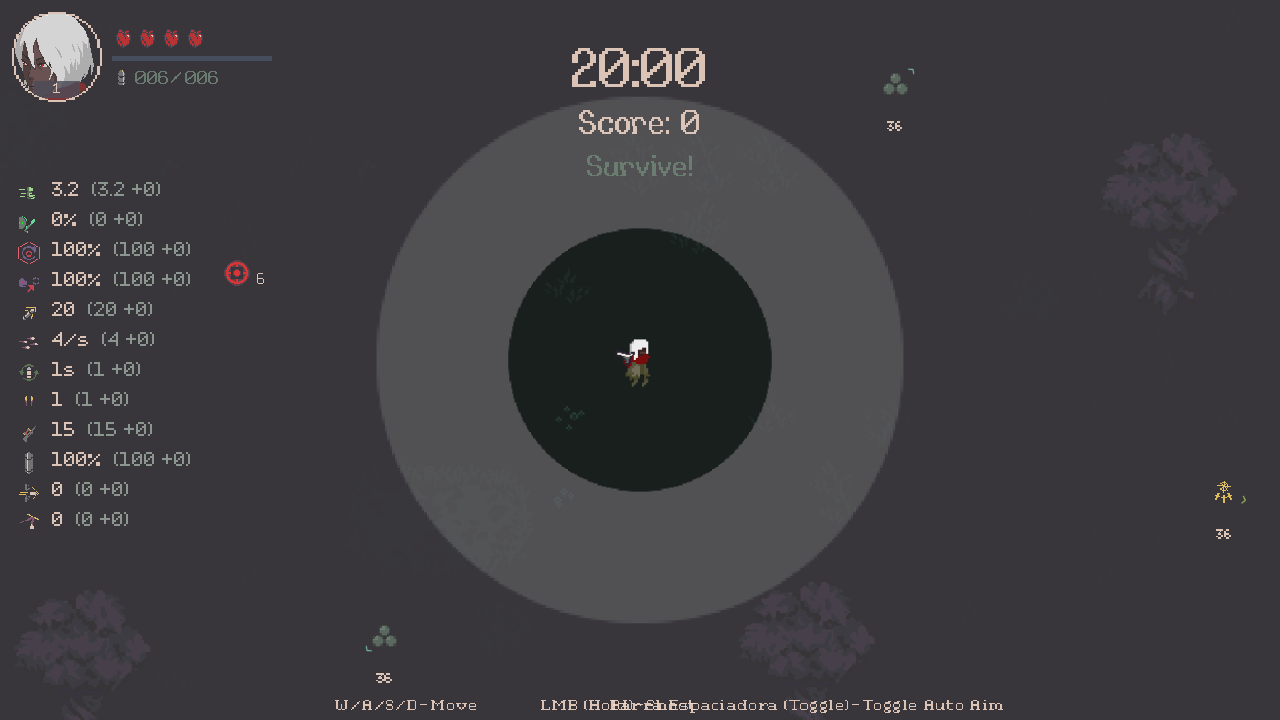
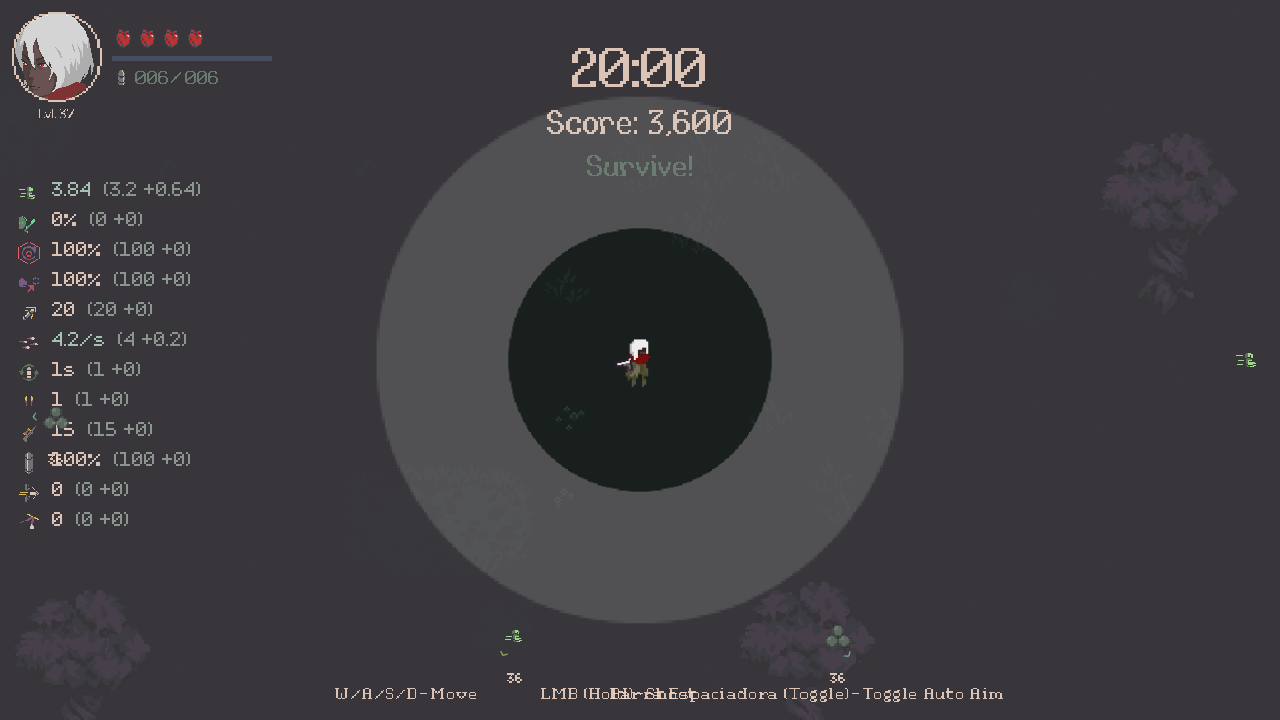
Move native level caption beneath the character portrait

diff --git a/src/CornerStatusHud.cs b/src/CornerStatusHud.cs
@@ -11,7 +11,7 @@ namespace TwentyMinutes.Modernization;
 [DefaultExecutionOrder(300)]
 public sealed class CornerStatusHud:MonoBehaviour
 {
- GameController owner;TMP_Text score,level;RectTransform panel,root,portrait,health,xp,ammo,levelBadge;
+ GameController owner;TMP_Text score,level,levelPrefix;RectTransform panel,root,portrait,health,xp,ammo,levelCaption;
  Image face;Sprite characterPortrait;
  internal void Initialize(GameController game,TMP_Text scoreText){owner=game;score=scoreText;panel=(RectTransform)game.hud.transform;}
  static RectTransform Child(Transform parent,string name)=>parent.Find(name).GetComponent<RectTransform>();
@@ -25,9 +25,10 @@ public sealed class CornerStatusHud:MonoBehaviour
   mask.GetComponent<Image>().sprite=Resources.FindObjectsOfTypeAll<Image>().First(i=>i.sprite!=null&&i.sprite.name=="T_Circle").sprite;
   mask.GetComponent<Mask>().showMaskGraphic=false;mask.GetComponent<Image>().raycastTarget=false;
   face=Rect(new GameObject("CharacterFace",typeof(RectTransform),typeof(Image)),mask,new Vector2(.5f,1),new Vector2(.5f,1),Vector2.zero,Vector2.zero).GetComponent<Image>();face.preserveAspect=true;face.raycastTarget=false;
-  var badge=StatsOverlay.Box(mask,"LevelBadge",new Vector2(.5f,0),new Vector2(.5f,0),new Vector2(0,2),new Vector2(46,17),StatsOverlay.Ink);badge.GetComponent<Image>().raycastTarget=false;levelBadge=badge.GetComponent<RectTransform>();
+  levelCaption=Rect(new GameObject("LevelCaption",typeof(RectTransform)),root,new Vector2(0,1),new Vector2(.5f,1),Vector2.zero,Vector2.zero);
   var oldLevel=Child(panel,"LevelDisplay");level=oldLevel.Find("LvlValue").GetComponent<TMP_Text>();
-  Rect(level.gameObject,levelBadge,new Vector2(.5f,.5f),new Vector2(.5f,.5f),Vector2.zero,new Vector2(44,17));level.fontSize=14;level.alignment=TextAlignmentOptions.Center;level.raycastTarget=false;oldLevel.gameObject.SetActive(false);
+  Rect(level.gameObject,levelCaption,new Vector2(.5f,.5f),new Vector2(0,.5f),Vector2.zero,new Vector2(44,17));level.fontSize=18*.75f;level.alignment=TextAlignmentOptions.MidlineLeft;level.raycastTarget=false;oldLevel.gameObject.SetActive(false);
+  levelPrefix=StatsOverlay.Text(levelCaption,"LevelPrefix",level.font,"Lvl.",13,Vector2.zero,new Vector2(44,17));levelPrefix.fontSize=level.fontSize;levelPrefix.alignment=TextAlignmentOptions.MidlineLeft;levelPrefix.color=level.color;
   health=Child(panel,"HealthUI");health.GetComponent<HorizontalLayoutGroup>().enabled=false;
   xp=Child(panel,"XPBar");ammo=Child(panel,"AmmoDisplay");
   foreach(var view in new[]{health,xp,ammo})Rect(view.gameObject,root,new Vector2(0,1),new Vector2(0,1),Vector2.zero,Vector2.zero);
@@ -45,18 +46,21 @@ public sealed class CornerStatusHud:MonoBehaviour
   var safe=Screen.safeArea;float topInset=Screen.height-safe.yMax;
   float panelTop=RectTransformUtility.WorldToScreenPoint(null,panel.TransformPoint(new Vector3(panel.rect.xMin,panel.rect.yMax))).y;
   float scoreBottom=RectTransformUtility.WorldToScreenPoint(null,score.transform.TransformPoint(score.textBounds.min)).y;
-  float height=Mathf.Min(90,(panelTop-scoreBottom-topInset-12*uiScale)/uiScale);
+  float height=Mathf.Min(110,(panelTop-scoreBottom-topInset-12*uiScale)/uiScale),avatarHeight=height-20;
   root.localScale=Vector3.one*(uiScale/nativeScale);root.sizeDelta=new Vector2(260,height);
   root.anchoredPosition=new Vector2((safe.xMin+12*uiScale)/nativeScale,-(topInset+12*uiScale)/nativeScale);
-  portrait.sizeDelta=new Vector2(height,height);
-  var mask=(RectTransform)face.transform.parent;mask.sizeDelta=new Vector2(height-4,height-4);
-  face.rectTransform.sizeDelta=new Vector2(height*1.45f,height*1.45f*characterPortrait.rect.height/characterPortrait.rect.width);face.rectTransform.anchoredPosition=new Vector2(0,height*.12f);
-  levelBadge.sizeDelta=new Vector2(Mathf.Min(46,height-8),17);
-  float columnX=height+10,width=260-columnX;
+  portrait.sizeDelta=new Vector2(avatarHeight,avatarHeight);
+  var mask=(RectTransform)face.transform.parent;mask.sizeDelta=new Vector2(avatarHeight-4,avatarHeight-4);
+  face.rectTransform.sizeDelta=new Vector2(avatarHeight*1.45f,avatarHeight*1.45f*characterPortrait.rect.height/characterPortrait.rect.width);face.rectTransform.anchoredPosition=new Vector2(0,avatarHeight*.12f);
+  levelCaption.anchoredPosition=new Vector2(avatarHeight*.5f,-avatarHeight-3);levelCaption.sizeDelta=new Vector2(avatarHeight,17);
+  float prefixWidth=levelPrefix.preferredWidth,valueWidth=level.preferredWidth,start=-(prefixWidth+3+valueWidth)*.5f;
+  Rect(levelPrefix.gameObject,levelCaption,new Vector2(.5f,.5f),new Vector2(0,.5f),new Vector2(start,0),new Vector2(prefixWidth,17));
+  Rect(level.gameObject,levelCaption,new Vector2(.5f,.5f),new Vector2(0,.5f),new Vector2(start+prefixWidth+3,0),new Vector2(valueWidth,17));
+  float columnX=avatarHeight+10,width=260-columnX;
   var hearts=health.Cast<Transform>().Where(t=>t.gameObject.activeSelf).Select(t=>(RectTransform)t).ToArray();
   int columns=Mathf.Min(8,Mathf.Max(1,hearts.Length)),rows=Mathf.Max(1,Mathf.CeilToInt((float)hearts.Length/columns));
-  float cell=Mathf.Min(22,(width-(columns-1)*2)/columns,(height-38-(rows-1)*2)/rows);
-  float heartHeight=rows*cell+(rows-1)*2,totalHeight=heartHeight+38,top=(height-totalHeight)*.5f;
+  float cell=Mathf.Min(22,(width-(columns-1)*2)/columns,(avatarHeight-38-(rows-1)*2)/rows);
+  float heartHeight=rows*cell+(rows-1)*2,totalHeight=heartHeight+38,top=(avatarHeight-totalHeight)*.5f;
   health.anchoredPosition=new Vector2(columnX,-top);health.sizeDelta=new Vector2(width,heartHeight);
   for(int i=0;i<hearts.Length;i++)
   {var item=hearts[i];item.anchorMin=item.anchorMax=new Vector2(0,1);item.pivot=new Vector2(0,1);item.localScale=Vector3.one;item.anchoredPosition=new Vector2(i%columns*(cell+2),-i/columns*(cell+2));item.sizeDelta=new Vector2(cell,cell);item.GetComponent<Image>().raycastTarget=false;}

diff --git a/validation/CornerHudChecks.cs b/validation/CornerHudChecks.cs
@@ -50,7 +50,11 @@ public partial class RuntimeChecks
   Require(CornerBounds((RectTransform)root.Find("XPBar")).width<bounds.width&&CornerBounds((RectTransform)root.Find("XPBar")).height<=8,"native XP progress is a short thin local bar");
   var face=root.GetComponentsInChildren<Image>().Single(i=>i.name=="CharacterFace");Require(face.sprite==PlayerController.Instance.loadedCharacter.portrait,"avatar shows the actual selected character portrait");
   foreach(var text in root.GetComponentsInChildren<TMP_Text>()){text.ForceMeshUpdate();var r=CornerBounds(text.rectTransform);Require(r.yMin>=bottom-1,"status text stays within the Score height limit: "+text.name);}
-  var level=root.GetComponentsInChildren<TMP_Text>().Single(t=>t.name=="LvlValue");Require(int.Parse(level.text)==game.playerXP.level,"native level variable still updates the portrait badge");
+  var level=root.GetComponentsInChildren<TMP_Text>().Single(t=>t.name=="LvlValue");Require(int.Parse(level.text)==game.playerXP.level,"native level variable still updates the caption");
+  var prefix=root.GetComponentsInChildren<TMP_Text>().Single(t=>t.name=="LevelPrefix");var caption=(RectTransform)root.Find("LevelCaption");var portrait=(RectTransform)root.Find("CharacterPortrait");
+  Require(prefix.text=="Lvl."&&level.transform.parent==caption&&caption.GetComponentsInChildren<Image>().Length==0,"level prefix and native value share a background-free external caption");
+  Require(CornerBounds(caption).yMax<CornerBounds(portrait).yMin&&Mathf.Abs(CornerBounds(caption).center.x-CornerBounds(portrait).center.x)<.1f,"caption is centered entirely below the avatar");
+  Require(Mathf.Abs(level.fontSize/root.Find("AmmoDisplay/AmmoCount").GetComponent<TMP_Text>().fontSize-.75f)<.001f&&prefix.fontSize==level.fontSize,"level caption uses75% of the native ammunition font size");
   var ammo=root.Find("AmmoDisplay");Require(int.Parse(ammo.Find("AmmoCount").GetComponent<TMP_Text>().text)==PlayerController.Instance.ammo.amount,"native ammo binding matches actual amount");
   Require(Mathf.Abs(level.canvasRenderer.GetInheritedAlpha()-Plugin.Instance.HudOpacity.Value/100f)<.002f,"compact HUD inherits opacity exactly once");
   Log("corner-layout",state+" "+Screen.width+"x"+Screen.height+" bounds="+bounds+" scoreBottom="+bottom+" portrait="+face.sprite.name);
@@ -61,6 +65,15 @@ public partial class RuntimeChecks
   bool continuation=mode.EndsWith("continue");
   if(continuation)yield return CombatBuffContinue();else{RunResume.Invalidate();yield return AchievementRun("Shana","RevolverData","20M_Forest",prepareRun:()=>Loadout.RuneSelection=new List<flanne.RuneSystem.RuneData>());}
   var game=Object.FindObjectOfType<GameController>();StopFixtureSpawning();GameTimer.SharedInstance.Stop();yield return CornerReady(game);var player=PlayerController.Instance;
+  if(mode=="corner-hud-caption")
+  {
+   yield return AchievementPick(game,"Haste",36);yield return CornerReady(game);Require(game.playerXP.level==37,"native level-up establishes the requested level37 example");
+   foreach(var size in new[]{new Vector2Int(1280,720),new Vector2Int(720,720),new Vector2Int(1920,1080)})
+   {Screen.SetResolution(size.x,size.y,false);while(Screen.width!=size.x||Screen.height!=size.y)yield return null;FeedbackCameras();yield return CornerReady(game);CornerGeometry(game,"external-level37");yield return PoiCapture("level-caption-"+size.x+".png");}
+   yield return AchievementPick(game,"QuickHands",37);yield return CornerReady(game);CornerGeometry(game,"next-native-level-up");Require(game.playerXP.level==38,"native value updates to38 without replacing its variable binding");
+   player.playerHealth.maxHP=12;player.playerHealth.hp=9;player.playerHealth.maxSHP=3;player.playerHealth.shp=3;yield return null;yield return new WaitForEndOfFrame();CornerGeometry(game,"expanded-health-caption");yield return PoiCapture("level-caption-expanded.png");
+   yield return AchievementExit(game,false);SetPhase("PASS");Log("complete","External Lvl.37 caption at three viewports,75% font ratio, Score-height limit, native update to38 and expanded hearts verified. Native portrait/frame and unrelated bindings retained.");Application.Quit(0);yield break;
+  }
   if(mode=="corner-hud-frame")
   {
    foreach(var size in new[]{new Vector2Int(1280,720),new Vector2Int(720,720),new Vector2Int(1920,1080)})

diff --git a/release/build.py b/release/build.py
@@ -29,7 +29,7 @@ env.update(TEMP=str(args.scratch), TMP=str(args.scratch), MODERNIZATION_SCRATCH=
            DOTNET_CLI_HOME=str(args.scratch / 'dotnet'), DOTNET_GENERATE_ASPNET_CERTIFICATE='false')
 subprocess.run(['dotnet', 'build', str(ROOT / 'src/Modernization.csproj'), '-c', 'Release', '--no-restore',
                 '--nologo', '-v:minimal', '-nodeReuse:false', '-m:1', '-p:UseSharedCompilation=false'], cwd=ROOT, env=env, check=True)
-stage = args.output / '20-Minutes-Till-Dawn-Revamped-1.3.14'
+stage = args.output / '20-Minutes-Till-Dawn-Revamped-1.3.15'
 (stage / 'Mod').mkdir(parents=True)
 plugin = args.scratch / 'bin/Modernization/netstandard2.0/TwentyMinutes.Modernization.dll'
 shutil.copy2(plugin, stage / 'Mod' / plugin.name)
@@ -46,7 +46,7 @@ for name in ('README.md', 'LICENSE', 'INSTALL.md'):
 contract = asset_contract(args.prepared_assets)
 if len(contract) != 593:
     raise SystemExit('Prepared asset contract must contain the complete 593-file local runtime set, including affixes, achievement icons/catalog, source display/camera data and both gameplay sounds with provenance')
-release = {'product': '20 Minutes Till Dawn - Revamped', 'version': '1.3.14', 'source_commit': revision,
+release = {'product': '20 Minutes Till Dawn - Revamped', 'version': '1.3.15', 'source_commit': revision,
            'candidate': args.candidate, 'plugin_sha256': digest(plugin), 'assets': contract,
            'asset_delivery': 'Prepared locally from pinned owned inputs; no extracted game art/data in this archive'}
 (stage / 'RELEASE.json').write_text(json.dumps(release, indent=2) + '\n', encoding='utf8', newline='\n')
@@ -62,10 +62,10 @@ plugin_path = 'BepInEx/plugins/20MTDModernization/TwentyMinutes.Modernization.dl
 installed[plugin_path] = digest(plugin)
 if len(installed) != 614:
     raise SystemExit('Updater contract requires the complete 614-file owned payload')
-(stage / 'UPDATE.json').write_text(json.dumps({'schema': 2, 'minimum_updater': '0.2.0', 'save_epoch': 1, 'product': '20MTD-Revamped', 'version': '1.3.14',
+(stage / 'UPDATE.json').write_text(json.dumps({'schema': 2, 'minimum_updater': '0.2.0', 'save_epoch': 1, 'product': '20MTD-Revamped', 'version': '1.3.15',
     'source_commit': revision, 'files': installed, 'payload': {plugin_path: 'Mod/' + plugin.name}}, indent=2) + '\n', encoding='utf8', newline='\n')
 files = {p.relative_to(stage).as_posix(): digest(p) for p in sorted(stage.rglob('*')) if p.is_file()}
-(stage / 'PACKAGE.json').write_text(json.dumps({'version': '1.3.14', 'source_commit': revision, 'files': files}, indent=2), encoding='utf8', newline='\n')
+(stage / 'PACKAGE.json').write_text(json.dumps({'version': '1.3.15', 'source_commit': revision, 'files': files}, indent=2), encoding='utf8', newline='\n')
 archive = args.output / (stage.name + '.zip')
 with zipfile.ZipFile(archive, 'w', compression=zipfile.ZIP_DEFLATED, compresslevel=9) as package:
     for path in sorted(stage.rglob('*')):

diff --git a/installer/install.py b/installer/install.py
@@ -13,7 +13,7 @@ import zipfile
 
 HERE = pathlib.Path(__file__).resolve().parent
 ROOT = HERE.parent
-VERSION = '1.3.14'
+VERSION = '1.3.15'
[1 lines of base64/hex data omitted]
 MOD = pathlib.PurePosixPath('BepInEx/plugins/20MTDModernization')
 
@@ -88,7 +88,7 @@ def download(pin, work, name):
     path.parent.mkdir(exist_ok=True)
     if not path.exists():
         writing = path.with_name(path.name + '.writing')
-        with urllib.request.urlopen(urllib.request.Request(pin['url'], headers={'User-Agent': '20MTD-Revamped/1.3.14'})) as response, writing.open('wb') as output:
+        with urllib.request.urlopen(urllib.request.Request(pin['url'], headers={'User-Agent': '20MTD-Revamped/1.3.15'})) as response, writing.open('wb') as output:
             shutil.copyfileobj(response, output)
         if digest(writing) != pin['sha256']:
             raise ValueError('Downloaded dependency digest mismatch: ' + name)

diff --git a/src/Plugin.cs b/src/Plugin.cs
@@ -16,7 +16,7 @@ using flanne.PerkSystem;
 using Object=UnityEngine.Object;
 
 namespace TwentyMinutes.Modernization;
-[BepInPlugin(Id,"20MTD Modernization","1.3.14")]
+[BepInPlugin(Id,"20MTD Modernization","1.3.15")]
 public class Plugin:BaseUnityPlugin
 {
     public const string Id="local.20mtd.modernization";

diff --git a/docs/CORNER-HUD.md b/docs/CORNER-HUD.md
@@ -2,9 +2,11 @@
 
 Authoritative scope: implement the agreed portrait-and-three-row corner HUD inspired by the supplied screenshots. The user explicitly limits its bottom edge to the bottom of the Score text, then asks that removing the full-width level bar also move the top HUD upward. Existing authorization includes implementation, focused verification, commit and a normal release through the established updater channel. No live Steam/phone deployment or save reset.
 
+Current amendment, authorized2026-10-30: move the level below the avatar as **Lvl. 37**, using75% of the ammunition font size. Remove the overlaid badge/background. C1/C2 below track this revision for1.3.15; the earlier1.3.13 acceptance/delivery at the end remains historical. Preserve the Score-height limit, portrait artwork and stepped frame; the portrait may scale down only when needed to fit the caption in a constrained viewport.
+
 | ID | Required behavior and acceptance | Stage |
 |---|---|---|
-| C01 | Replace the full-width XP/level strip with a compact upper-left cluster: current character portrait in a thin circular frame, level badge inside its lower edge, hearts/soul hearts on the first row, short thin XP bar on the second, native bullet icon/current-max ammunition on the third. Use the existing native live bindings. No enclosing background panel. | C1 |
+| C01 | Replace the full-width XP/level strip with a compact upper-left cluster: current character portrait in a thin stepped circular frame, **Lvl. N** centered below it at75% of the ammo font size, hearts/soul hearts on the first row, short thin XP bar on the second, native bullet icon/current-max ammunition on the third. Use the existing native live bindings. No enclosing panel or level-label background; no portrait overlap. | C1 |
 | C02 | The entire cluster fits inside the reported safe area and ends at or above the actual Score text's bottom edge. Move the centered timer, Score and objective upward by24 native-canvas units to reclaim the former bar area; move the Custom badge into the freed strip above the timer without overlap. Keep the existing vertically centered metrics and acquired-skill rows, and the existing HUD opacity setting/default85%. | C1 |
 | C03 | Handle ordinary and expanded health/soul hearts, different native/ported portrait shapes, live health/XP/ammunition updates, level-up, reload, pause/resume and Continue. Keep existing visibility/input owners; do not introduce another progression/stat counter. Preserve gameplay, settings, progress and POI direction logic. | C1 |
 | C04 | Verify native render/layout at1280×720,720×720 and1920×1080, with measured bounds against Score ink and representative fresh/expanded-health/Continue states. Inspect actual screenshot evidence. Update README/changelog and publish a normal verified package with copied install/rollback, independent public download, preservation checks and exact scratch cleanup. | C1 / C2 |
@@ -12,10 +14,14 @@ Authoritative scope: implement the agreed portrait-and-three-row corner HUD insp
 
 | Stage | Status | Satisfied | Remaining / blockers | Deferrals |
 |---|---|---|---|---|
-| C1 Integrated compact status HUD | COMPLETE | C01–C03/C05 and C04 native acceptance verified in runs3/4/6 | None | None |
-| C2 Final delivery | COMPLETE | C04 delivered and independently verified | None | None |
+| C1 Integrated compact status HUD | COMPLETE | Revised caption/native37→38,75% font, expanded health and square/widescreen bounds/render verified; unchanged native bindings retain prior acceptance | None | None |
+| C2 Final delivery | ACTIVE | Current native acceptance reconciled; earlier1.3.13 delivery retained below | Revised README screenshot,1.3.15 package/public verification and cleanup | None |
 
-Visual contract: retain the game's pixel art, font and cream/coral/muted-green palette. Approximately260 reference pixels wide; height is constrained by the Score ink, not a fixed taller card. Portrait and all three status rows remain within that height, with the level badge inside the portrait. Preserve native heart and soul-heart artwork and compact ammo count; compact health layout can wrap and scale within its assigned row area. Use measured display/canvas geometry so square/resized views honor the same contract. Match the established screen-HUD opacity without applying it twice.
+Visual contract: retain the game's pixel art, font and cream/coral/muted-green palette. Approximately260 reference pixels wide; height is constrained by the Score ink, not a fixed taller card. Portrait, caption and all three status rows remain within that height. The caption sits3 reference pixels below the circle, font13.5 versus ammunition18. Preserve native heart and soul-heart artwork and compact ammo count; compact health layout can wrap and scale within its assigned row area. Use measured display/canvas geometry so square/resized views honor the same contract. Match the established screen-HUD opacity without applying it twice.
+
+Current revision native/build scratch: `D:/Temp/20mtd-level-caption-20261030` for sustained small-file I/O. Retained acceptance/release evidence: `D:/Projects/20MTD-Modernization-evidence/level-caption-20261030`. No live installation or phone mutation.
+
+Current native run2 passes actual level37 selection and update to38, the below-avatar caption without an Image background, font-size ratio, centered alignment, inherited opacity, native health/ammunition and Score-height bounds at1280×720,720×720 and1920×1080, plus expanded hearts. Captures inspected. Run1 stopped because the generic AndroidPick fixture ignored its seed-level argument; run2 uses the existing native AchievementPick seed directly. Production layout was unchanged by that fixture correction. Closure review found no new state owner: the native number binding remains intact and the prefix is static presentation; no required refactoring or deferral.
 
 Use the existing background-desktop Windows fixture and app-owned input, structured hierarchy snapshots and rendered bounds; no foreground window or OS input injection. Main agent executes directly. Temporary .NET/native work uses `D:/Temp/20mtd-corner-hud-20261030` for sustained small-file I/O. Retain acceptance diagnostics/screenshots/releases in `D:/Projects/20MTD-Modernization-evidence/corner-hud-20261030`; preserve existing shared assets/runtime bindings and live Steam/profile/configuration.
 

diff --git a/docs/images/SOURCES.md b/docs/images/SOURCES.md
@@ -8,7 +8,7 @@ These PNGs are byte-for-byte copies of existing Windows test captures, inspected
 |---|---|---|
[7 lines of base64/hex data omitted]
@@ -20,7 +20,7 @@ These PNGs are byte-for-byte copies of existing Windows test captures, inspected
[2 lines of base64/hex data omitted]
 
-Title/rune/Custom captures retain their recorded historical workflows. The current HUD is the1280×720 compact-corner run6 render, with the native portrait unchanged and only the frame rasterized. Paired720×720/1920×1080 captures are inspected. Current-task run3/run4 verify unchanged live bindings, expanded health, pause, reload, level-up, fresh-process Continue and a ported portrait. Historical acquired-path captures remain separate. The upgrade chart is the native Magic Lens selection in the current run; no natural progression claim. The native Options and concise Diamond preview are actual1920×1080 controller workflows. Source evidence remains local; proprietary game inputs and raw profiles are not distributed.
+Title/rune/Custom captures retain their recorded historical workflows. The current HUD is the1280×720 level-caption run2 render, with native Lvl.37 centered below the portrait at75% of the ammunition font size; the artwork and stepped frame are retained. Paired720×720/1920×1080 captures are inspected. Prior corner-hud-20261030 runs3/4 verify the retained live bindings, expanded health, pause, reload, level-up, fresh-process Continue and a ported portrait. Current level-caption run2 verifies the revised layout and native37→38 update. Historical acquired-path captures remain separate. The upgrade chart is the native Magic Lens selection in its recorded historical run; no natural progression claim. The native Options and concise Diamond preview are actual1920×1080 controller workflows. Source evidence remains local; proprietary game inputs and raw profiles are not distributed.
 
 The Bulwark and Diamond selector captures now come from the published v1.3.5 production DLL. The validation-only fixture waits for the native title transition, selects each character through actual controller navigation, verifies the exact PointsUI owner is hidden and Runes is aligned left, then restores the isolated profile ownership. No live profile or game installation was changed.
 

diff --git a/README.md b/README.md
@@ -4,7 +4,7 @@ Android 8.6 gameplay brought to the Windows game, with a transparent stats HUD, 
 
 A community mod for **20 Minutes Till Dawn by Flanne**, maintained by **Darkaxt**.
 
-[Download v1.3.14](https://github.com/Darkaxt/20-Minutes-Till-Dawn-Revamped/releases/tag/v1.3.14) · [Android updater 0.2.0](https://github.com/Darkaxt/20-Minutes-Till-Dawn-Revamped/releases/tag/updater-v0.2.0) · [Installation](INSTALL.md) · [Changelog](#changelog) · [Gameplay ledger](docs/PARITY.md)
+[Download v1.3.15](https://github.com/Darkaxt/20-Minutes-Till-Dawn-Revamped/releases/tag/v1.3.15) · [Android updater 0.2.0](https://github.com/Darkaxt/20-Minutes-Till-Dawn-Revamped/releases/tag/updater-v0.2.0) · [Installation](INSTALL.md) · [Changelog](#changelog) · [Gameplay ledger](docs/PARITY.md)
 
 ## Executive summary
 
@@ -89,7 +89,7 @@ The original timer sits at top center below the level bar, with **Score** beneat
 
 ![Compact native portrait HUD with a stepped pixel-art frame, hearts, XP and ammunition](docs/images/hud-build.png)
 
-*Actual1280×720 Windows render: the compact portrait/status cluster replaces the full-width level bar. The frame has stepped pixel-art edges; the native portrait stays unchanged. Timer, Score and objective move upward. The cluster stays above the Score baseline in square and widescreen views. Controlled test run; acquired-path rows are verified separately.*
+*Actual1280×720 Windows render: the compact portrait/status cluster replaces the full-width level bar. The frame has stepped pixel-art edges; **Lvl. 37** is centered underneath at75% of the ammunition font size, with no overlaid badge. The native portrait stays unchanged. Timer, Score and objective move upward. The cluster stays above the Score baseline in square and widescreen views. Controlled test run; acquired-path rows are verified separately.*
 
 ![Compact damage number at maximum zoom-out in the square Windows viewport](docs/images/damage-numbers-zoom.png)
 
@@ -238,6 +238,10 @@ Install **Revamped Updater**, connect DroidDeck once through Android Files, then
 The HUD groups acquired icons by native upgrade path, with a subtle glow for tripled skills and no tier/count text. Native auto-targeting remains available; no separate autofire toggle was added. Continue reconstructs the supported build and runtime state; it is not a frozen snapshot of every live enemy, projectile or RNG state.
 
 ## Changelog
+
+### v1.3.15 — Level beneath the portrait
+
+**Changed:** the level appears as **Lvl. N** centered below the avatar, at75% of the ammunition font size. The overlaid badge/background is removed. The compact cluster still fits above the Score baseline, with responsive square/widescreen sizing and native level updates. [Release notes](release/NOTES-1.3.15.md) · [Acceptance](docs/CORNER-HUD.md).
 
 ### v1.3.14 — Clear Culling feedback
 

diff --git a/INSTALL.md b/INSTALL.md
@@ -1,6 +1,6 @@
-# Install 1.3.14
+# Install 1.3.15
 
-Android/DroidDeck: use **Revamped Updater 0.2.0**. Updating an already transitioned1.3.0–1.3.13 installation to1.3.14 preserves progress and Continue; there is no new save reset. Crossing from before the character-rune transition still resets this game's old progress and Continue save once, with an explicit button warning. Connect the DroidDeck/Steam-library folder so the updater can reach this game's own prefix. Windows installation retains existing purchased ranks as the initial character rune seed. [Updater instructions](android-updater/README.md).
+Android/DroidDeck: use **Revamped Updater 0.2.0**. Updating an already transitioned1.3.0–1.3.14 installation to1.3.15 preserves progress and Continue; there is no new save reset. Crossing from before the character-rune transition still resets this game's old progress and Continue save once, with an explicit button warning. Connect the DroidDeck/Steam-library folder so the updater can reach this game's own prefix. Windows installation retains existing purchased ranks as the initial character rune seed. [Updater instructions](android-updater/README.md).
 
[1 lines of base64/hex data omitted]
 

diff --git a/release/NOTES-1.3.15.md b/release/NOTES-1.3.15.md
@@ -1,0 +1,8 @@
+# 1.3.15 — Level beneath the portrait
+
+- Move the level beneath the avatar as **Lvl. N**, centered and using75% of the ammunition counter’s font size.
+- Remove the level badge/background from the portrait. Keep the native character artwork and stepped frame.
+- Keep the complete cluster above the Score text’s bottom edge. Constrained views scale the portrait to make room for the caption.
+- Retain the native level-number binding; actual37→38 updates, expanded hearts and square/widescreen layout are verified.
+
+No save reset or gameplay change. Compatible with updater0.2.0, schema2 and save epoch1.

diff --git a/docs/PROGRESS.md b/docs/PROGRESS.md
@@ -1,5 +1,9 @@
 # Current Android gameplay completion
 
+## External level caption — 2026-10-30
+
+[Scope](CORNER-HUD.md). C1 COMPLETE: below-avatar caption, native37→38 update, font ratio and square/widescreen bounds verified. C2 ACTIVE: release/public verification and cleanup remain. No deferrals.
+
 ## Culling feedback — 2026-10-30
 
 [Scope](CULLING-POPUP.md). P1 and P2 COMPLETE: label/native acceptance and final delivery verified. No blockers or deferrals.
